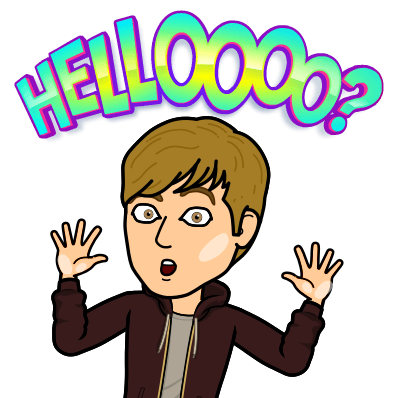
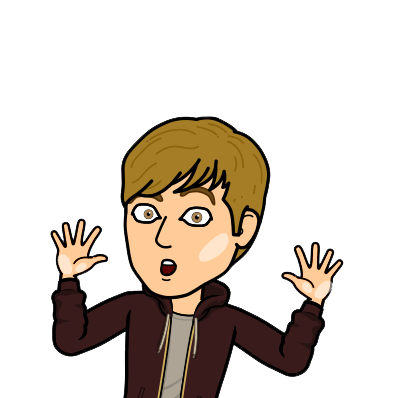
Mejoras con typed y animacion de vuelo

diff --git a/assets/no_needJs/starsCanvas.js b/assets/no_needJs/starsCanvas.js
@@ -1,114 +1,122 @@
-window.onload = function () {
-
-    var WIDTH = window.innerWidth,
-        HEIGHT = window.innerHeight,
-        MAX_PARTICLES = 200,
-        DRAW_INTERVAL = 60,
-        container = document.querySelector('.Starcontainer'),
-        canvas = document.querySelector('#pixie'),
-        context = canvas.getContext('2d'),
-        gradient = null,
-        pixies = new Array();
-
-    console.log(container);
-
-    function setDimensions(e) {
-        // WIDTH = window.innerWidth;
-        // HEIGHT = window.innerHeight;
-
-        WIDTH = container.offsetWidth;
-        HEIGHT = container.offsetHeight;
-
-        // container.style.width = WIDTH + 'px';
-        // container.style.height = HEIGHT + 'px';
-        canvas.width = WIDTH;
-        canvas.height = HEIGHT;
-    }
-    setDimensions();
-    window.addEventListener('resize', setDimensions);
-
-    function Circle() {
-        this.settings = {
-            ttl: 8000,
-            xmax: 5,
-            ymax: 2,
-            rmax: 10,
-            rt: 1,
-            xdef: 960,
-            ydef: 540,
-            xdrift: 4,
-            ydrift: 4,
-            random: true,
-            blink: true
-        };
-
-        this.reset = function () {
-            this.x = (this.settings.random ? WIDTH * Math.random() : this.settings.xdef);
-            this.y = (this.settings.random ? HEIGHT * Math.random() : this.settings.ydef);
-            this.r = ((this.settings.rmax - 1) * Math.random()) + 1;
-            this.dx = (Math.random() * this.settings.xmax) * (Math.random() < .5 ? -1 : 1);
-            this.dy = (Math.random() * this.settings.ymax) * (Math.random() < .5 ? -1 : 1);
-            this.hl = (this.settings.ttl / DRAW_INTERVAL) * (this.r / this.settings.rmax);
-            this.rt = Math.random() * this.hl;
-            this.settings.rt = Math.random() + 1;
-            this.stop = Math.random() * .2 + .4;
-            this.settings.xdrift *= Math.random() * (Math.random() < .5 ? -1 : 1);
-            this.settings.ydrift *= Math.random() * (Math.random() < .5 ? -1 : 1);
-        }
-
-        this.fade = function () {
-            this.rt += this.settings.rt;
-        }
-
-        this.draw = function () {
-            if (this.settings.blink && (this.rt <= 0 || this.rt >= this.hl)) {
-                this.settings.rt = this.settings.rt * -1;
-            } else if (this.rt >= this.hl) {
-                this.reset();
-            }
-
-            var newo = 1 - (this.rt / this.hl);
-            context.beginPath();
-            context.arc(this.x, this.y, this.r, 0, Math.PI * 2, true);
-            context.closePath();
-
-            var cr = this.r * newo;
-            gradient = context.createRadialGradient(this.x, this.y, 0, this.x, this.y, (cr <= 0 ? 1 : cr));
-            gradient.addColorStop(0.0, 'rgba(255,255,255,' + newo + ')');
-            gradient.addColorStop(this.stop, 'rgba(77,101,181,' + (newo * .6) + ')');
-            gradient.addColorStop(1.0, 'rgba(77,101,181,0)');
-            context.fillStyle = gradient;
-            context.fill();
-        }
-
-        this.move = function () {
-            this.x += (this.rt / this.hl) * this.dx;
-            this.y += (this.rt / this.hl) * this.dy;
-            if (this.x > WIDTH || this.x < 0) this.dx *= -1;
-            if (this.y > HEIGHT || this.y < 0) this.dy *= -1;
-        }
-
-        this.getX = function () {
-            return this.x;
-        }
-        this.getY = function () {
-            return this.y;
-        }
-    }
-
-    for (var i = 0; i < MAX_PARTICLES; i++) {
-        pixies.push(new Circle());
-        pixies[i].reset();
-    }
-
-    function draw() {
-        context.clearRect(0, 0, WIDTH, HEIGHT);
-        for (var i = 0; i < pixies.length; i++) {
-            pixies[i].fade();
-            pixies[i].move();
-            pixies[i].draw();
-        }
-    }
-
-    setInterval(draw, DRAW_INTERVAL);
+if( /Android|webOS|iPhone|iPad|iPod|BlackBerry|IEMobile|Opera Mini/i.test(navigator.userAgent) ) {
+    
 }
+else
+{
+   //Now include js files
+   window.onload = function () {
+    
+        var WIDTH = window.innerWidth,
+            HEIGHT = window.innerHeight,
+            MAX_PARTICLES = 200,
+            DRAW_INTERVAL = 60,
+            container = document.querySelector('.Starcontainer'),
+            canvas = document.querySelector('#pixie'),
+            context = canvas.getContext('2d'),
+            gradient = null,
+            pixies = new Array();
+    
+        console.log(container);
+    
+        function setDimensions(e) {
+            // WIDTH = window.innerWidth;
+            // HEIGHT = window.innerHeight;
+    
+            WIDTH = container.offsetWidth;
+            HEIGHT = container.offsetHeight;
+    
+            // container.style.width = WIDTH + 'px';
+            // container.style.height = HEIGHT + 'px';
+            canvas.width = WIDTH;
+            canvas.height = HEIGHT;
+        }
+        setDimensions();
+        window.addEventListener('resize', setDimensions);
+    
+        function Circle() {
+            this.settings = {
+                ttl: 8000,
+                xmax: 5,
+                ymax: 2,
+                rmax: 10,
+                rt: 1,
+                xdef: 960,
+                ydef: 540,
+                xdrift: 4,
+                ydrift: 4,
+                random: true,
+                blink: true
+            };
+    
+            this.reset = function () {
+                this.x = (this.settings.random ? WIDTH * Math.random() : this.settings.xdef);
+                this.y = (this.settings.random ? HEIGHT * Math.random() : this.settings.ydef);
+                this.r = ((this.settings.rmax - 1) * Math.random()) + 1;
+                this.dx = (Math.random() * this.settings.xmax) * (Math.random() < .5 ? -1 : 1);
+                this.dy = (Math.random() * this.settings.ymax) * (Math.random() < .5 ? -1 : 1);
+                this.hl = (this.settings.ttl / DRAW_INTERVAL) * (this.r / this.settings.rmax);
+                this.rt = Math.random() * this.hl;
+                this.settings.rt = Math.random() + 1;
+                this.stop = Math.random() * .2 + .4;
+                this.settings.xdrift *= Math.random() * (Math.random() < .5 ? -1 : 1);
+                this.settings.ydrift *= Math.random() * (Math.random() < .5 ? -1 : 1);
+            }
+    
+            this.fade = function () {
+                this.rt += this.settings.rt;
+            }
+    
+            this.draw = function () {
+                if (this.settings.blink && (this.rt <= 0 || this.rt >= this.hl)) {
+                    this.settings.rt = this.settings.rt * -1;
+                } else if (this.rt >= this.hl) {
+                    this.reset();
+                }
+    
+                var newo = 1 - (this.rt / this.hl);
+                context.beginPath();
+                context.arc(this.x, this.y, this.r, 0, Math.PI * 2, true);
+                context.closePath();
+    
+                var cr = this.r * newo;
+                gradient = context.createRadialGradient(this.x, this.y, 0, this.x, this.y, (cr <= 0 ? 1 : cr));
+                gradient.addColorStop(0.0, 'rgba(255,255,255,' + newo + ')');
+                gradient.addColorStop(this.stop, 'rgba(77,101,181,' + (newo * .6) + ')');
+                gradient.addColorStop(1.0, 'rgba(77,101,181,0)');
+                context.fillStyle = gradient;
+                context.fill();
+            }
+    
+            this.move = function () {
+                this.x += (this.rt / this.hl) * this.dx;
+                this.y += (this.rt / this.hl) * this.dy;
+                if (this.x > WIDTH || this.x < 0) this.dx *= -1;
+                if (this.y > HEIGHT || this.y < 0) this.dy *= -1;
+            }
+    
+            this.getX = function () {
+                return this.x;
+            }
+            this.getY = function () {
+                return this.y;
+            }
+        }
+    
+        for (var i = 0; i < MAX_PARTICLES; i++) {
+            pixies.push(new Circle());
+            pixies[i].reset();
+        }
+    
+        function draw() {
+            context.clearRect(0, 0, WIDTH, HEIGHT);
+            for (var i = 0; i < pixies.length; i++) {
+                pixies[i].fade();
+                pixies[i].move();
+                pixies[i].draw();
+            }
+        }
+    
+        setInterval(draw, DRAW_INTERVAL);
+    }
+}
+

diff --git a/assets/styles/keyframes.css b/assets/styles/keyframes.css
@@ -1,0 +1,27 @@
+
+#volar {
+    animation: vuela 4s infinite;
+}
+@keyframes vuela
+{
+0% {
+    transform: rotate(5deg);
+    
+}
+25% {
+    transform: rotate(15deg);
+    margin-left: 50px;
+}
+50%{
+    transform: scale(1.05) rotate(-15deg);
+    
+}
+75% {
+    
+    margin-left: -20px;
+}
+100%{
+
+    transform: rotate(5deg);
+}
+}

diff --git a/tasks/pipeline.js b/tasks/pipeline.js
@@ -30,7 +30,6 @@ var jsFilesToInject = [
 
   // Dependencies like jQuery, or Angular are brought in here
   'js/dependencies/jquery.min.js',
-  'js/dependencies/jquery.js',
   '/js/main.js',
   '/js/dependencies/jquery.easing.1.3.js',
   '/js/dependencies/jquery.waypoints.min.js',

diff --git a/assets/styles/style.css b/assets/styles/style.css
@@ -466,9 +466,8 @@ h2 {
 #fh5co-header .display-tc h2,
 #fh5co-counter .display-tc h2,
 .fh5co-cover .display-tc h2 {
-  font-size: 20px;
+  font-size: 26px;
   line-height: 1.5;
-  margin-bottom: 30px;
 }
 #fh5co-header .display-tc .btn,
 #fh5co-counter .display-tc .btn,

diff --git a/assets/js/animations.js b/assets/js/animations.js
@@ -19,5 +19,6 @@ $(document).ready(function(){
     },  function() {
         $('#moji2').removeClass('tada') 
     } );
+   
 
 });
